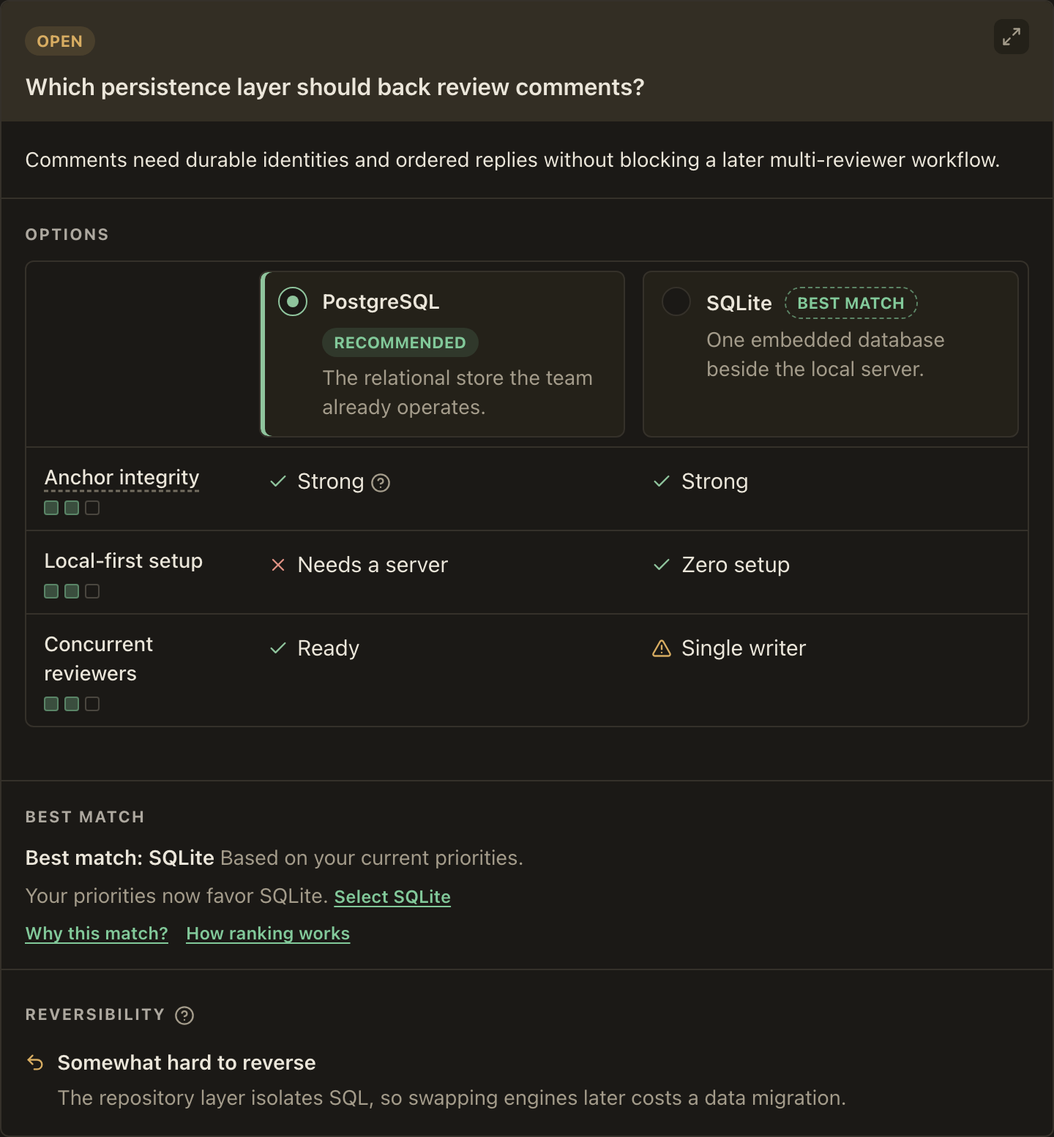
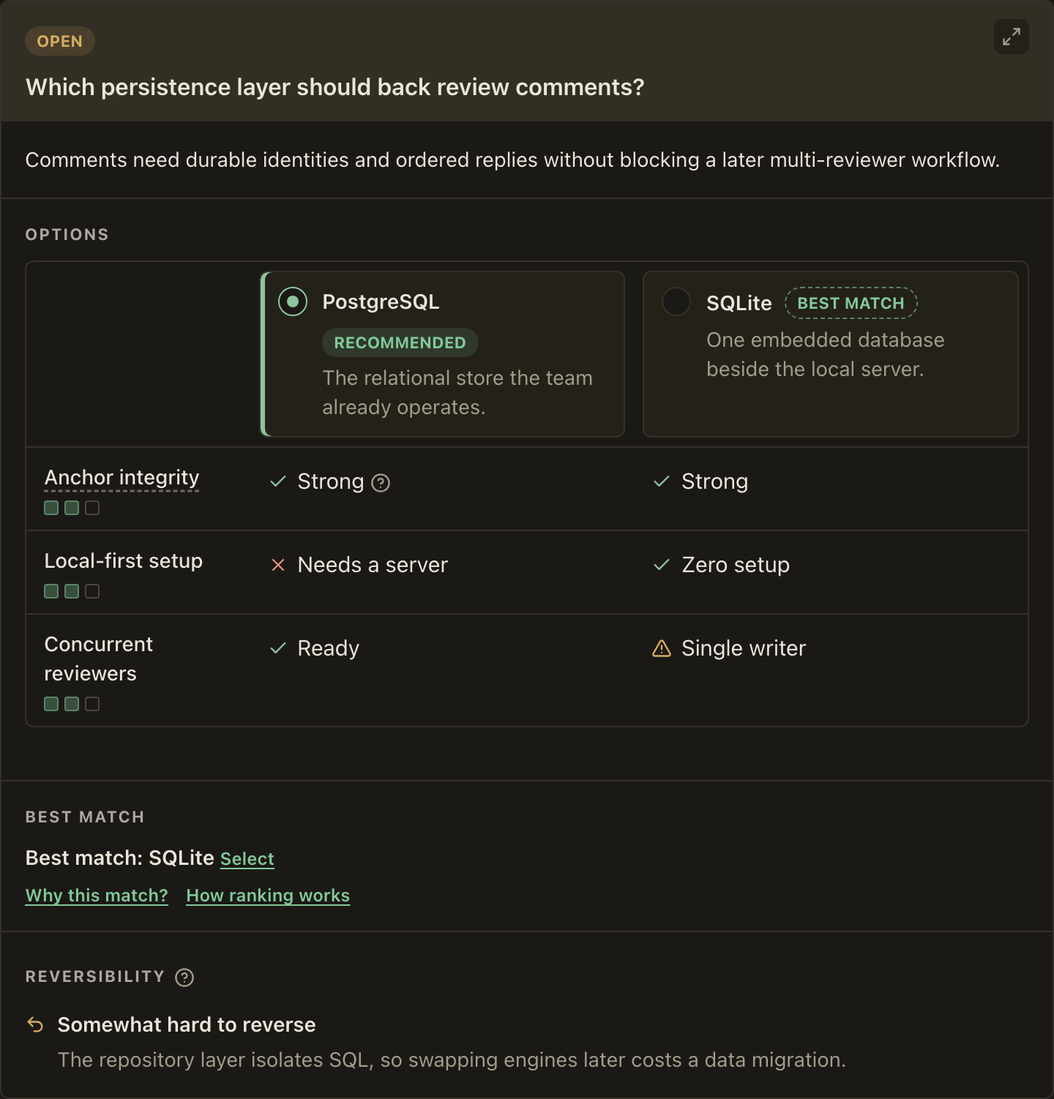
fix(render): collapse the Best match verdict to one line
The verdict, the based-on clause, and the divergence sentence said
the same thing three ways; now the line reads Best match: <option>
with a single inline Select action when it differs from the reader's
selection.

diff --git a/src/render/markdown/components/big-decision/big-decision.generated.ts b/src/render/markdown/components/big-decision/big-decision.generated.ts
@@ -1,2 +1,2 @@
 // Generated by scripts/gen-browser-scripts.mjs from src/render/markdown/components/big-decision/big-decision.browser.ts. Do not edit.
-export const BIG_DECISION_JS = "\"use strict\";\n(() => {\n  // src/render/markdown/components/shared/full-screen/full-screen.browser.ts\n  var nextDialogLabelId = 1;\n  var updateFullScreenControl = ({\n    button,\n    expanded,\n    expandLabel\n  }) => {\n    const label = expanded ? \"Exit full screen\" : expandLabel;\n    button.setAttribute(\"aria-label\", label);\n    button.title = label;\n    button.querySelector('[data-lucide=\"maximize-2\"]')?.toggleAttribute(\"hidden\", expanded);\n    button.querySelector('[data-lucide=\"minimize-2\"]')?.toggleAttribute(\"hidden\", !expanded);\n  };\n  var openComponentFullScreen = ({\n    component,\n    labelElement,\n    fallbackLabel,\n    onToggle\n  }) => {\n    const article = component.closest(\"article\");\n    if (article === null) {\n      return;\n    }\n    const scrollY = window.scrollY;\n    const dialog = document.createElement(\"dialog\");\n    dialog.className = \"component-dialog\";\n    if (labelElement === null) {\n      dialog.setAttribute(\"aria-label\", fallbackLabel);\n    } else {\n      let labelId = labelElement.id;\n      if (labelId === \"\" || document.getElementById(labelId) !== labelElement) {\n        do {\n          labelId = `component-dialog-label-${nextDialogLabelId}`;\n          nextDialogLabelId += 1;\n        } while (document.getElementById(labelId) !== null);\n        labelElement.id = labelId;\n      }\n      dialog.setAttribute(\"aria-labelledby\", labelId);\n    }\n    const placeholder = document.createElement(\"span\");\n    placeholder.hidden = true;\n    component.before(placeholder);\n    dialog.append(component);\n    article.append(dialog);\n    onToggle({ expanded: true });\n    dialog.addEventListener(\"click\", (event) => {\n      if (event.target === dialog) {\n        dialog.close();\n      }\n    });\n    dialog.addEventListener(\"close\", () => {\n      placeholder.before(component);\n      placeholder.remove();\n      dialog.remove();\n      onToggle({ expanded: false });\n      window.scrollTo({ top: scrollY, behavior: \"instant\" });\n    });\n    dialog.showModal();\n    const rect = dialog.getBoundingClientRect();\n    dialog.style.width = `min(${Math.round(rect.width + 64)}px, 96vw, 100rem)`;\n    dialog.style.height = `min(${Math.round(rect.height + 48)}px, 92vh)`;\n  };\n\n  // src/render/markdown/components/big-decision/big-decision.browser.ts\n  var EXPAND_LABEL = \"View decision full screen\";\n  var applyDecisionExpandedState = ({\n    component,\n    expanded\n  }) => {\n    if (expanded) {\n      component.dataset.decisionExpanded = \"\";\n    } else {\n      delete component.dataset.decisionExpanded;\n    }\n    const button = component.querySelector(\n      \"[data-decision-expand]\"\n    );\n    if (button !== null) {\n      updateFullScreenControl({ button, expanded, expandLabel: EXPAND_LABEL });\n    }\n  };\n  for (const component of document.querySelectorAll(\n    \"[data-big-decision]\"\n  )) {\n    const button = component.querySelector(\n      \"[data-decision-expand]\"\n    );\n    if (button === null) {\n      continue;\n    }\n    button.hidden = false;\n    button.addEventListener(\"click\", () => {\n      const openDialog = component.closest(\"dialog\");\n      if (openDialog !== null) {\n        openDialog.close();\n        return;\n      }\n      openComponentFullScreen({\n        component,\n        labelElement: component.querySelector(\n          \"[data-decision-question]\"\n        ),\n        fallbackLabel: \"Decision\",\n        onToggle: ({ expanded }) => applyDecisionExpandedState({ component, expanded })\n      });\n    });\n  }\n  var enhanceFloatingInfo = ({\n    info,\n    hover\n  }) => {\n    const summary = info.querySelector(\"summary\");\n    const body = info.querySelector(\".big-decision-info-body\");\n    if (summary === null || body === null) {\n      return;\n    }\n    info.classList.add(\"big-decision-info-floating\");\n    body.setAttribute(\"role\", \"tooltip\");\n    const open = () => {\n      info.open = true;\n      const anchor = summary.getBoundingClientRect();\n      body.style.left = \"0px\";\n      body.style.top = \"0px\";\n      const size = body.getBoundingClientRect();\n      const left = Math.max(\n        8,\n        Math.min(\n          anchor.left + anchor.width / 2 - size.width / 2,\n          window.innerWidth - size.width - 8\n        )\n      );\n      const below = anchor.bottom + 6;\n      const top = below + size.height > window.innerHeight - 8 ? Math.max(8, anchor.top - size.height - 6) : below;\n      body.style.left = `${left}px`;\n      body.style.top = `${top}px`;\n    };\n    const close = () => {\n      info.open = false;\n    };\n    if (hover) {\n      info.addEventListener(\"pointerenter\", open);\n      info.addEventListener(\"pointerleave\", close);\n    } else {\n      document.addEventListener(\"pointerdown\", (event) => {\n        if (info.open && event.target instanceof Node && !info.contains(event.target)) {\n          close();\n        }\n      });\n    }\n    summary.addEventListener(\"focus\", () => {\n      if (summary.matches(\":focus-visible\")) {\n        open();\n      }\n    });\n    summary.addEventListener(\"blur\", close);\n    summary.addEventListener(\"click\", (event) => {\n      event.preventDefault();\n      if (info.open) {\n        close();\n      } else {\n        open();\n      }\n    });\n    summary.addEventListener(\"keydown\", (event) => {\n      if (event.key === \"Escape\") {\n        close();\n      }\n    });\n    window.addEventListener(\n      \"scroll\",\n      () => {\n        if (info.open) {\n          open();\n        }\n      },\n      { passive: true }\n    );\n  };\n  for (const info of document.querySelectorAll(\n    \"details.big-decision-info\"\n  )) {\n    if (info instanceof HTMLDetailsElement) {\n      enhanceFloatingInfo({ info, hover: true });\n    }\n  }\n  var createPopover = ({\n    label\n  }) => {\n    const details = document.createElement(\"details\");\n    details.className = \"big-decision-info\";\n    const summary = document.createElement(\"summary\");\n    summary.className = \"big-decision-popover-link\";\n    summary.textContent = label;\n    const body = document.createElement(\"div\");\n    body.className = \"big-decision-info-body max-w-60 text-xs font-normal text-muted\";\n    details.append(summary, body);\n    enhanceFloatingInfo({ info: details, hover: false });\n    return { details, body };\n  };\n  var TONE_VALUES = {\n    good: 2,\n    mixed: 1,\n    neutral: 0,\n    bad: -2\n  };\n  var PRIORITY_LABELS = [\"Low\", \"Medium\", \"High\"];\n  var PRIORITY_MAX = PRIORITY_LABELS.length;\n  var DEFAULT_PRIORITY = 2;\n  var HOW_RANKING_POINTS = [\n    \"Each option is scored against every criterion.\",\n    \"Priority controls how strongly a criterion affects the comparison.\",\n    \"Changing priorities updates Best match; it never changes your selection.\"\n  ];\n  var criterionName = (row) => {\n    const header = row.querySelector(\"th\");\n    return header?.childNodes[0]?.textContent?.trim() || \"this criterion\";\n  };\n  var optionName = (option) => option.querySelector(\"[data-option-title]\")?.textContent?.trim() ?? \"this option\";\n  for (const component of document.querySelectorAll(\n    \"[data-big-decision]\"\n  )) {\n    if (component.dataset.decisionState === \"decided\") {\n      continue;\n    }\n    const matrix = component.querySelector(\n      \"table.big-decision-matrix\"\n    );\n    if (matrix === null) {\n      continue;\n    }\n    const rows = [...matrix.querySelectorAll(\"tbody tr\")];\n    const options = [\n      ...matrix.querySelectorAll(\"thead [data-option]\")\n    ];\n    if (rows.length === 0 || options.length < 2) {\n      continue;\n    }\n    const priorities = rows.map(() => DEFAULT_PRIORITY);\n    const resetters = [];\n    let leaderColumn = null;\n    const contribution = ({\n      row,\n      index,\n      column\n    }) => {\n      const cell = row.querySelectorAll(\"td\")[column];\n      const tone = cell?.dataset.scoreTone;\n      const value = tone === void 0 ? 0 : TONE_VALUES[tone] ?? 0;\n      return (priorities[index] ?? 0) * value;\n    };\n    const explainLeader = (column) => {\n      const strengths = rows.map((row, index) => ({\n        title: criterionName(row),\n        value: contribution({ row, index, column })\n      })).filter(({ value }) => value > 0).sort((left, right) => right.value - left.value).slice(0, 2).map(({ title }) => title);\n      const name = optionName(options[column] ?? document.body);\n      if (strengths.length === 0) {\n        return `${name} leads narrowly; no criterion currently works strongly in its favor.`;\n      }\n      const list = strengths.length === 1 ? strengths[0] : `${strengths[0]} and ${strengths[1]}`;\n      return `${name} performs strongly on ${list} under the current priorities.`;\n    };\n    const section = document.createElement(\"section\");\n    section.className = \"border-t border-edge px-4 py-4\";\n    section.dataset.decisionBestMatch = \"\";\n    const sectionLabel = document.createElement(\"div\");\n    sectionLabel.className = \"card-section-label text-[0.6875rem] leading-4 font-bold tracking-[0.08em] uppercase text-ink/70\";\n    sectionLabel.textContent = \"Best match\";\n    const bestMatchLine = document.createElement(\"p\");\n    bestMatchLine.className = \"mt-2.5 mb-0 text-sm text-muted\";\n    bestMatchLine.dataset.decisionBestMatchLine = \"\";\n    const whyPopover = createPopover({ label: \"Why this match?\" });\n    const resetButton = document.createElement(\"button\");\n    resetButton.type = \"button\";\n    resetButton.className = \"big-decision-popover-link\";\n    resetButton.dataset.decisionWeightsReset = \"\";\n    resetButton.textContent = \"Reset priorities\";\n    resetButton.hidden = true;\n    resetButton.addEventListener(\"click\", () => {\n      for (const reset of resetters) {\n        reset();\n      }\n    });\n    const divergence = document.createElement(\"p\");\n    divergence.className = \"mt-1.5 mb-0 text-sm text-muted\";\n    divergence.dataset.decisionDivergence = \"\";\n    divergence.hidden = true;\n    const divergenceText = document.createElement(\"span\");\n    const divergenceButton = document.createElement(\"button\");\n    divergenceButton.type = \"button\";\n    divergenceButton.className = \"big-decision-popover-link\";\n    divergenceButton.addEventListener(\"click\", () => {\n      if (leaderColumn !== null) {\n        options[leaderColumn]?.click();\n      }\n    });\n    divergence.append(divergenceText, document.createTextNode(\" \"));\n    divergence.append(divergenceButton);\n    const updateReset = () => {\n      resetButton.hidden = priorities.every(\n        (priority) => priority === DEFAULT_PRIORITY\n      );\n    };\n    const updateDivergence = () => {\n      const selected = options.findIndex(\n        (option) => option.dataset.optionSelected !== void 0\n      );\n      if (leaderColumn === null || selected === -1 || selected === leaderColumn) {\n        divergence.hidden = true;\n        return;\n      }\n      const name = optionName(options[leaderColumn] ?? document.body);\n      divergenceText.textContent = `Your priorities now favor ${name}.`;\n      divergenceButton.textContent = `Select ${name}`;\n      divergence.hidden = false;\n    };\n    const recompute = () => {\n      const totals = options.map(\n        (_, column) => rows.reduce(\n          (sum, row, index) => sum + contribution({ row, index, column }),\n          0\n        )\n      );\n      const best = Math.max(...totals);\n      const leaders = totals.filter((total) => total === best).length;\n      leaderColumn = leaders < options.length ? totals.indexOf(best) : null;\n      for (const [column, option] of options.entries()) {\n        const leads = column === leaderColumn;\n        let tag = option.querySelector(\".big-decision-bestmatch\");\n        if (leads) {\n          option.dataset.bestMatch = \"\";\n          if (tag === null) {\n            tag = document.createElement(\"span\");\n            tag.className = \"big-decision-bestmatch\";\n            tag.textContent = \"Best match\";\n            option.querySelector(\"[data-option-title]\")?.parentElement?.append(tag);\n          }\n        } else {\n          delete option.dataset.bestMatch;\n          tag?.remove();\n        }\n      }\n      if (leaderColumn === null) {\n        bestMatchLine.textContent = \"Best match: none yet - the current priorities do not separate the options.\";\n        whyPopover.details.hidden = true;\n      } else {\n        const name = optionName(options[leaderColumn] ?? document.body);\n        bestMatchLine.replaceChildren();\n        const label = document.createElement(\"span\");\n        label.className = \"font-semibold text-ink\";\n        label.textContent = `Best match: ${name}`;\n        bestMatchLine.append(\n          label,\n          document.createTextNode(\" Based on your current priorities.\")\n        );\n        whyPopover.details.hidden = false;\n        whyPopover.body.replaceChildren();\n        const heading = document.createElement(\"p\");\n        heading.className = \"m-0 font-semibold text-ink\";\n        heading.textContent = `Why ${name} is the best match`;\n        const reason = document.createElement(\"p\");\n        reason.className = \"mt-1 mb-0\";\n        reason.textContent = explainLeader(leaderColumn);\n        whyPopover.body.append(heading, reason);\n      }\n      updateDivergence();\n    };\n    const howPopover = createPopover({ label: \"How ranking works\" });\n    const howHeading = document.createElement(\"p\");\n    howHeading.className = \"m-0 font-semibold text-ink\";\n    howHeading.textContent = \"How ranking works\";\n    const howList = document.createElement(\"ul\");\n    howList.className = \"mt-1 mb-0 list-disc pl-4\";\n    for (const point of HOW_RANKING_POINTS) {\n      const item = document.createElement(\"li\");\n      item.textContent = point;\n      howList.append(item);\n    }\n    howPopover.body.append(howHeading, howList);\n    const actions = document.createElement(\"p\");\n    actions.className = \"mt-2 mb-0 flex flex-wrap items-center gap-x-3 gap-y-1 text-xs\";\n    actions.append(whyPopover.details, howPopover.details, resetButton);\n    section.append(sectionLabel, bestMatchLine, divergence, actions);\n    for (const [index, row] of rows.entries()) {\n      const rowHeader = row.querySelector(\"th\");\n      if (rowHeader === null) {\n        continue;\n      }\n      const group = document.createElement(\"div\");\n      group.className = \"big-decision-weights mt-1.5 flex flex-wrap items-center gap-x-1.5 gap-y-0.5\";\n      group.setAttribute(\"role\", \"radiogroup\");\n      group.setAttribute(\"aria-label\", `Priority of ${criterionName(row)}`);\n      group.dataset.decisionWeights = \"\";\n      const squares = [];\n      const apply = (priority) => {\n        priorities[index] = priority;\n        for (const [position, square] of squares.entries()) {\n          square.setAttribute(\n            \"aria-checked\",\n            position + 1 === priority ? \"true\" : \"false\"\n          );\n          if (position < priority) {\n            square.dataset.weightFilled = \"\";\n          } else {\n            delete square.dataset.weightFilled;\n          }\n        }\n        recompute();\n        updateReset();\n      };\n      resetters.push(() => {\n        apply(DEFAULT_PRIORITY);\n      });\n      const squareRow = document.createElement(\"span\");\n      squareRow.className = \"inline-flex items-center gap-1\";\n      for (let step = 1; step <= PRIORITY_MAX; step += 1) {\n        const square = document.createElement(\"button\");\n        square.type = \"button\";\n        square.className = \"big-decision-weight\";\n        square.setAttribute(\"role\", \"radio\");\n        square.setAttribute(\n          \"aria-label\",\n          `Set priority to ${PRIORITY_LABELS[step - 1]} for ${criterionName(row)}`\n        );\n        square.title = `Priority: ${PRIORITY_LABELS[step - 1]}`;\n        square.addEventListener(\"click\", () => {\n          apply(step);\n        });\n        squares.push(square);\n        squareRow.append(square);\n      }\n      group.append(squareRow);\n      rowHeader.append(group);\n      apply(DEFAULT_PRIORITY);\n    }\n    component.querySelector(\"[data-decision-options]\")?.after(section);\n    const observer = new MutationObserver(() => {\n      updateDivergence();\n    });\n    for (const option of options) {\n      observer.observe(option, {\n        attributes: true,\n        attributeFilter: [\"data-option-selected\"]\n      });\n    }\n    recompute();\n    updateReset();\n  }\n})();\n";
+export const BIG_DECISION_JS = "\"use strict\";\n(() => {\n  // src/render/markdown/components/shared/full-screen/full-screen.browser.ts\n  var nextDialogLabelId = 1;\n  var updateFullScreenControl = ({\n    button,\n    expanded,\n    expandLabel\n  }) => {\n    const label = expanded ? \"Exit full screen\" : expandLabel;\n    button.setAttribute(\"aria-label\", label);\n    button.title = label;\n    button.querySelector('[data-lucide=\"maximize-2\"]')?.toggleAttribute(\"hidden\", expanded);\n    button.querySelector('[data-lucide=\"minimize-2\"]')?.toggleAttribute(\"hidden\", !expanded);\n  };\n  var openComponentFullScreen = ({\n    component,\n    labelElement,\n    fallbackLabel,\n    onToggle\n  }) => {\n    const article = component.closest(\"article\");\n    if (article === null) {\n      return;\n    }\n    const scrollY = window.scrollY;\n    const dialog = document.createElement(\"dialog\");\n    dialog.className = \"component-dialog\";\n    if (labelElement === null) {\n      dialog.setAttribute(\"aria-label\", fallbackLabel);\n    } else {\n      let labelId = labelElement.id;\n      if (labelId === \"\" || document.getElementById(labelId) !== labelElement) {\n        do {\n          labelId = `component-dialog-label-${nextDialogLabelId}`;\n          nextDialogLabelId += 1;\n        } while (document.getElementById(labelId) !== null);\n        labelElement.id = labelId;\n      }\n      dialog.setAttribute(\"aria-labelledby\", labelId);\n    }\n    const placeholder = document.createElement(\"span\");\n    placeholder.hidden = true;\n    component.before(placeholder);\n    dialog.append(component);\n    article.append(dialog);\n    onToggle({ expanded: true });\n    dialog.addEventListener(\"click\", (event) => {\n      if (event.target === dialog) {\n        dialog.close();\n      }\n    });\n    dialog.addEventListener(\"close\", () => {\n      placeholder.before(component);\n      placeholder.remove();\n      dialog.remove();\n      onToggle({ expanded: false });\n      window.scrollTo({ top: scrollY, behavior: \"instant\" });\n    });\n    dialog.showModal();\n    const rect = dialog.getBoundingClientRect();\n    dialog.style.width = `min(${Math.round(rect.width + 64)}px, 96vw, 100rem)`;\n    dialog.style.height = `min(${Math.round(rect.height + 48)}px, 92vh)`;\n  };\n\n  // src/render/markdown/components/big-decision/big-decision.browser.ts\n  var EXPAND_LABEL = \"View decision full screen\";\n  var applyDecisionExpandedState = ({\n    component,\n    expanded\n  }) => {\n    if (expanded) {\n      component.dataset.decisionExpanded = \"\";\n    } else {\n      delete component.dataset.decisionExpanded;\n    }\n    const button = component.querySelector(\n      \"[data-decision-expand]\"\n    );\n    if (button !== null) {\n      updateFullScreenControl({ button, expanded, expandLabel: EXPAND_LABEL });\n    }\n  };\n  for (const component of document.querySelectorAll(\n    \"[data-big-decision]\"\n  )) {\n    const button = component.querySelector(\n      \"[data-decision-expand]\"\n    );\n    if (button === null) {\n      continue;\n    }\n    button.hidden = false;\n    button.addEventListener(\"click\", () => {\n      const openDialog = component.closest(\"dialog\");\n      if (openDialog !== null) {\n        openDialog.close();\n        return;\n      }\n      openComponentFullScreen({\n        component,\n        labelElement: component.querySelector(\n          \"[data-decision-question]\"\n        ),\n        fallbackLabel: \"Decision\",\n        onToggle: ({ expanded }) => applyDecisionExpandedState({ component, expanded })\n      });\n    });\n  }\n  var enhanceFloatingInfo = ({\n    info,\n    hover\n  }) => {\n    const summary = info.querySelector(\"summary\");\n    const body = info.querySelector(\".big-decision-info-body\");\n    if (summary === null || body === null) {\n      return;\n    }\n    info.classList.add(\"big-decision-info-floating\");\n    body.setAttribute(\"role\", \"tooltip\");\n    const open = () => {\n      info.open = true;\n      const anchor = summary.getBoundingClientRect();\n      body.style.left = \"0px\";\n      body.style.top = \"0px\";\n      const size = body.getBoundingClientRect();\n      const left = Math.max(\n        8,\n        Math.min(\n          anchor.left + anchor.width / 2 - size.width / 2,\n          window.innerWidth - size.width - 8\n        )\n      );\n      const below = anchor.bottom + 6;\n      const top = below + size.height > window.innerHeight - 8 ? Math.max(8, anchor.top - size.height - 6) : below;\n      body.style.left = `${left}px`;\n      body.style.top = `${top}px`;\n    };\n    const close = () => {\n      info.open = false;\n    };\n    if (hover) {\n      info.addEventListener(\"pointerenter\", open);\n      info.addEventListener(\"pointerleave\", close);\n    } else {\n      document.addEventListener(\"pointerdown\", (event) => {\n        if (info.open && event.target instanceof Node && !info.contains(event.target)) {\n          close();\n        }\n      });\n    }\n    summary.addEventListener(\"focus\", () => {\n      if (summary.matches(\":focus-visible\")) {\n        open();\n      }\n    });\n    summary.addEventListener(\"blur\", close);\n    summary.addEventListener(\"click\", (event) => {\n      event.preventDefault();\n      if (info.open) {\n        close();\n      } else {\n        open();\n      }\n    });\n    summary.addEventListener(\"keydown\", (event) => {\n      if (event.key === \"Escape\") {\n        close();\n      }\n    });\n    window.addEventListener(\n      \"scroll\",\n      () => {\n        if (info.open) {\n          open();\n        }\n      },\n      { passive: true }\n    );\n  };\n  for (const info of document.querySelectorAll(\n    \"details.big-decision-info\"\n  )) {\n    if (info instanceof HTMLDetailsElement) {\n      enhanceFloatingInfo({ info, hover: true });\n    }\n  }\n  var createPopover = ({\n    label\n  }) => {\n    const details = document.createElement(\"details\");\n    details.className = \"big-decision-info\";\n    const summary = document.createElement(\"summary\");\n    summary.className = \"big-decision-popover-link\";\n    summary.textContent = label;\n    const body = document.createElement(\"div\");\n    body.className = \"big-decision-info-body max-w-60 text-xs font-normal text-muted\";\n    details.append(summary, body);\n    enhanceFloatingInfo({ info: details, hover: false });\n    return { details, body };\n  };\n  var TONE_VALUES = {\n    good: 2,\n    mixed: 1,\n    neutral: 0,\n    bad: -2\n  };\n  var PRIORITY_LABELS = [\"Low\", \"Medium\", \"High\"];\n  var PRIORITY_MAX = PRIORITY_LABELS.length;\n  var DEFAULT_PRIORITY = 2;\n  var HOW_RANKING_POINTS = [\n    \"Each option is scored against every criterion.\",\n    \"Priority controls how strongly a criterion affects the comparison.\",\n    \"Changing priorities updates Best match; it never changes your selection.\"\n  ];\n  var criterionName = (row) => {\n    const header = row.querySelector(\"th\");\n    return header?.childNodes[0]?.textContent?.trim() || \"this criterion\";\n  };\n  var optionName = (option) => option.querySelector(\"[data-option-title]\")?.textContent?.trim() ?? \"this option\";\n  for (const component of document.querySelectorAll(\n    \"[data-big-decision]\"\n  )) {\n    if (component.dataset.decisionState === \"decided\") {\n      continue;\n    }\n    const matrix = component.querySelector(\n      \"table.big-decision-matrix\"\n    );\n    if (matrix === null) {\n      continue;\n    }\n    const rows = [...matrix.querySelectorAll(\"tbody tr\")];\n    const options = [\n      ...matrix.querySelectorAll(\"thead [data-option]\")\n    ];\n    if (rows.length === 0 || options.length < 2) {\n      continue;\n    }\n    const priorities = rows.map(() => DEFAULT_PRIORITY);\n    const resetters = [];\n    let leaderColumn = null;\n    const contribution = ({\n      row,\n      index,\n      column\n    }) => {\n      const cell = row.querySelectorAll(\"td\")[column];\n      const tone = cell?.dataset.scoreTone;\n      const value = tone === void 0 ? 0 : TONE_VALUES[tone] ?? 0;\n      return (priorities[index] ?? 0) * value;\n    };\n    const explainLeader = (column) => {\n      const strengths = rows.map((row, index) => ({\n        title: criterionName(row),\n        value: contribution({ row, index, column })\n      })).filter(({ value }) => value > 0).sort((left, right) => right.value - left.value).slice(0, 2).map(({ title }) => title);\n      const name = optionName(options[column] ?? document.body);\n      if (strengths.length === 0) {\n        return `${name} leads narrowly; no criterion currently works strongly in its favor.`;\n      }\n      const list = strengths.length === 1 ? strengths[0] : `${strengths[0]} and ${strengths[1]}`;\n      return `${name} performs strongly on ${list} under the current priorities.`;\n    };\n    const section = document.createElement(\"section\");\n    section.className = \"border-t border-edge px-4 py-4\";\n    section.dataset.decisionBestMatch = \"\";\n    const sectionLabel = document.createElement(\"div\");\n    sectionLabel.className = \"card-section-label text-[0.6875rem] leading-4 font-bold tracking-[0.08em] uppercase text-ink/70\";\n    sectionLabel.textContent = \"Best match\";\n    const bestMatchLine = document.createElement(\"p\");\n    bestMatchLine.className = \"mt-2.5 mb-0 text-sm text-muted\";\n    bestMatchLine.dataset.decisionBestMatchLine = \"\";\n    const whyPopover = createPopover({ label: \"Why this match?\" });\n    const resetButton = document.createElement(\"button\");\n    resetButton.type = \"button\";\n    resetButton.className = \"big-decision-popover-link\";\n    resetButton.dataset.decisionWeightsReset = \"\";\n    resetButton.textContent = \"Reset priorities\";\n    resetButton.hidden = true;\n    resetButton.addEventListener(\"click\", () => {\n      for (const reset of resetters) {\n        reset();\n      }\n    });\n    const selectButton = document.createElement(\"button\");\n    selectButton.type = \"button\";\n    selectButton.className = \"big-decision-popover-link\";\n    selectButton.dataset.decisionDivergence = \"\";\n    selectButton.textContent = \"Select\";\n    selectButton.hidden = true;\n    selectButton.addEventListener(\"click\", () => {\n      if (leaderColumn !== null) {\n        options[leaderColumn]?.click();\n      }\n    });\n    const updateReset = () => {\n      resetButton.hidden = priorities.every(\n        (priority) => priority === DEFAULT_PRIORITY\n      );\n    };\n    const updateDivergence = () => {\n      const selected = options.findIndex(\n        (option) => option.dataset.optionSelected !== void 0\n      );\n      selectButton.hidden = leaderColumn === null || selected === -1 || selected === leaderColumn;\n    };\n    const recompute = () => {\n      const totals = options.map(\n        (_, column) => rows.reduce(\n          (sum, row, index) => sum + contribution({ row, index, column }),\n          0\n        )\n      );\n      const best = Math.max(...totals);\n      const leaders = totals.filter((total) => total === best).length;\n      leaderColumn = leaders < options.length ? totals.indexOf(best) : null;\n      for (const [column, option] of options.entries()) {\n        const leads = column === leaderColumn;\n        let tag = option.querySelector(\".big-decision-bestmatch\");\n        if (leads) {\n          option.dataset.bestMatch = \"\";\n          if (tag === null) {\n            tag = document.createElement(\"span\");\n            tag.className = \"big-decision-bestmatch\";\n            tag.textContent = \"Best match\";\n            option.querySelector(\"[data-option-title]\")?.parentElement?.append(tag);\n          }\n        } else {\n          delete option.dataset.bestMatch;\n          tag?.remove();\n        }\n      }\n      if (leaderColumn === null) {\n        bestMatchLine.textContent = \"Best match: none - the current priorities do not separate the options.\";\n        whyPopover.details.hidden = true;\n      } else {\n        const name = optionName(options[leaderColumn] ?? document.body);\n        const label = document.createElement(\"span\");\n        label.className = \"font-semibold text-ink\";\n        label.textContent = `Best match: ${name}`;\n        bestMatchLine.replaceChildren(\n          label,\n          document.createTextNode(\" \"),\n          selectButton\n        );\n        whyPopover.details.hidden = false;\n        whyPopover.body.replaceChildren();\n        const heading = document.createElement(\"p\");\n        heading.className = \"m-0 font-semibold text-ink\";\n        heading.textContent = `Why ${name} is the best match`;\n        const reason = document.createElement(\"p\");\n        reason.className = \"mt-1 mb-0\";\n        reason.textContent = explainLeader(leaderColumn);\n        whyPopover.body.append(heading, reason);\n      }\n      updateDivergence();\n    };\n    const howPopover = createPopover({ label: \"How ranking works\" });\n    const howHeading = document.createElement(\"p\");\n    howHeading.className = \"m-0 font-semibold text-ink\";\n    howHeading.textContent = \"How ranking works\";\n    const howList = document.createElement(\"ul\");\n    howList.className = \"mt-1 mb-0 list-disc pl-4\";\n    for (const point of HOW_RANKING_POINTS) {\n      const item = document.createElement(\"li\");\n      item.textContent = point;\n      howList.append(item);\n    }\n    howPopover.body.append(howHeading, howList);\n    const actions = document.createElement(\"p\");\n    actions.className = \"mt-2 mb-0 flex flex-wrap items-center gap-x-3 gap-y-1 text-xs\";\n    actions.append(whyPopover.details, howPopover.details, resetButton);\n    section.append(sectionLabel, bestMatchLine, actions);\n    for (const [index, row] of rows.entries()) {\n      const rowHeader = row.querySelector(\"th\");\n      if (rowHeader === null) {\n        continue;\n      }\n      const group = document.createElement(\"div\");\n      group.className = \"big-decision-weights mt-1.5 flex flex-wrap items-center gap-x-1.5 gap-y-0.5\";\n      group.setAttribute(\"role\", \"radiogroup\");\n      group.setAttribute(\"aria-label\", `Priority of ${criterionName(row)}`);\n      group.dataset.decisionWeights = \"\";\n      const squares = [];\n      const apply = (priority) => {\n        priorities[index] = priority;\n        for (const [position, square] of squares.entries()) {\n          square.setAttribute(\n            \"aria-checked\",\n            position + 1 === priority ? \"true\" : \"false\"\n          );\n          if (position < priority) {\n            square.dataset.weightFilled = \"\";\n          } else {\n            delete square.dataset.weightFilled;\n          }\n        }\n        recompute();\n        updateReset();\n      };\n      resetters.push(() => {\n        apply(DEFAULT_PRIORITY);\n      });\n      const squareRow = document.createElement(\"span\");\n      squareRow.className = \"inline-flex items-center gap-1\";\n      for (let step = 1; step <= PRIORITY_MAX; step += 1) {\n        const square = document.createElement(\"button\");\n        square.type = \"button\";\n        square.className = \"big-decision-weight\";\n        square.setAttribute(\"role\", \"radio\");\n        square.setAttribute(\n          \"aria-label\",\n          `Set priority to ${PRIORITY_LABELS[step - 1]} for ${criterionName(row)}`\n        );\n        square.title = `Priority: ${PRIORITY_LABELS[step - 1]}`;\n        square.addEventListener(\"click\", () => {\n          apply(step);\n        });\n        squares.push(square);\n        squareRow.append(square);\n      }\n      group.append(squareRow);\n      rowHeader.append(group);\n      apply(DEFAULT_PRIORITY);\n    }\n    component.querySelector(\"[data-decision-options]\")?.after(section);\n    const observer = new MutationObserver(() => {\n      updateDivergence();\n    });\n    for (const option of options) {\n      observer.observe(option, {\n        attributes: true,\n        attributeFilter: [\"data-option-selected\"]\n      });\n    }\n    recompute();\n    updateReset();\n  }\n})();\n";

diff --git a/src/render/markdown/components/big-decision/big-decision.browser.ts b/src/render/markdown/components/big-decision/big-decision.browser.ts
@@ -296,21 +296,17 @@ for (const component of document.querySelectorAll<HTMLElement>(
       reset();
     }
   });
-  const divergence = document.createElement("p");
-  divergence.className = "mt-1.5 mb-0 text-sm text-muted";
-  divergence.dataset.decisionDivergence = "";
-  divergence.hidden = true;
-  const divergenceText = document.createElement("span");
-  const divergenceButton = document.createElement("button");
-  divergenceButton.type = "button";
-  divergenceButton.className = "big-decision-popover-link";
-  divergenceButton.addEventListener("click", () => {
+  const selectButton = document.createElement("button");
+  selectButton.type = "button";
+  selectButton.className = "big-decision-popover-link";
+  selectButton.dataset.decisionDivergence = "";
+  selectButton.textContent = "Select";
+  selectButton.hidden = true;
+  selectButton.addEventListener("click", () => {
     if (leaderColumn !== null) {
       options[leaderColumn]?.click();
     }
   });
-  divergence.append(divergenceText, document.createTextNode(" "));
-  divergence.append(divergenceButton);
 
   const updateReset = (): void => {
     resetButton.hidden = priorities.every(
@@ -319,19 +315,13 @@ for (const component of document.querySelectorAll<HTMLElement>(
   };
 
   // The reader's own selection stays untouched; when it diverges from the
-  // computed leader, the footer offers the switch as an explicit action.
+  // computed leader, one inline Select offers the switch explicitly.
   const updateDivergence = (): void => {
     const selected = options.findIndex(
       (option) => option.dataset.optionSelected !== undefined,
     );
-    if (leaderColumn === null || selected === -1 || selected === leaderColumn) {
-      divergence.hidden = true;
-      return;
-    }
-    const name = optionName(options[leaderColumn] ?? document.body);
-    divergenceText.textContent = `Your priorities now favor ${name}.`;
-    divergenceButton.textContent = `Select ${name}`;
-    divergence.hidden = false;
+    selectButton.hidden =
+      leaderColumn === null || selected === -1 || selected === leaderColumn;
   };
 
   const recompute = (): void => {
@@ -364,17 +354,17 @@ for (const component of document.querySelectorAll<HTMLElement>(
     }
     if (leaderColumn === null) {
       bestMatchLine.textContent =
-        "Best match: none yet - the current priorities do not separate the options.";
+        "Best match: none - the current priorities do not separate the options.";
       whyPopover.details.hidden = true;
     } else {
       const name = optionName(options[leaderColumn] ?? document.body);
-      bestMatchLine.replaceChildren();
       const label = document.createElement("span");
       label.className = "font-semibold text-ink";
       label.textContent = `Best match: ${name}`;
-      bestMatchLine.append(
+      bestMatchLine.replaceChildren(
         label,
-        document.createTextNode(" Based on your current priorities."),
+        document.createTextNode(" "),
+        selectButton,
       );
       whyPopover.details.hidden = false;
       whyPopover.body.replaceChildren();
@@ -406,7 +396,7 @@ for (const component of document.querySelectorAll<HTMLElement>(
   actions.className =
     "mt-2 mb-0 flex flex-wrap items-center gap-x-3 gap-y-1 text-xs";
   actions.append(whyPopover.details, howPopover.details, resetButton);
-  section.append(sectionLabel, bestMatchLine, divergence, actions);
+  section.append(sectionLabel, bestMatchLine, actions);
 
   for (const [index, row] of rows.entries()) {
     const rowHeader = row.querySelector("th");

diff --git a/test/big-decision.spec.ts b/test/big-decision.spec.ts
@@ -81,7 +81,7 @@ test("should review standalone plan decisions", async ({
     await expect(options.nth(1)).toContainText("Best match");
     await expect(section).toContainText("Best match: SQLite");
     const divergence = section.locator("[data-decision-divergence]");
-    await expect(divergence).toContainText("Your priorities now favor SQLite");
+    await expect(divergence).toHaveText("Select");
     const setupPriority = openDecision
       .locator("[data-decision-weights]")
       .nth(1)
@@ -100,7 +100,7 @@ test("should review standalone plan decisions", async ({
     const options = openDecision.locator("thead [data-option]");
     const divergence = openDecision.locator("[data-decision-divergence]");
     await expect(divergence).toBeVisible();
-    await divergence.locator("button").click();
+    await divergence.click();
     await expect(options.nth(1)).toHaveAttribute("aria-checked", "true");
     await expect(divergence).toBeHidden();
   });
